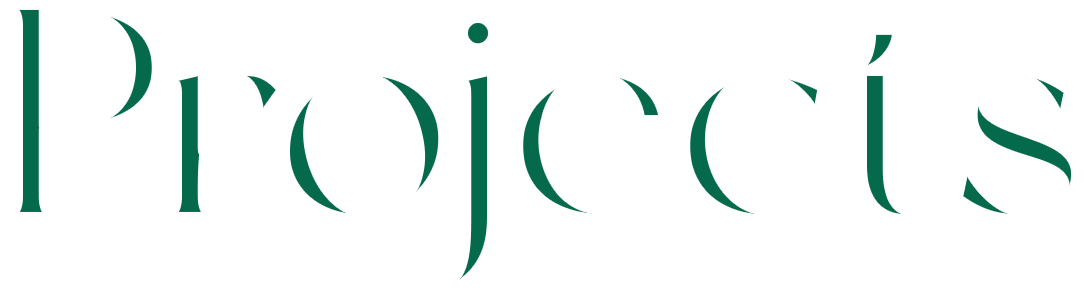
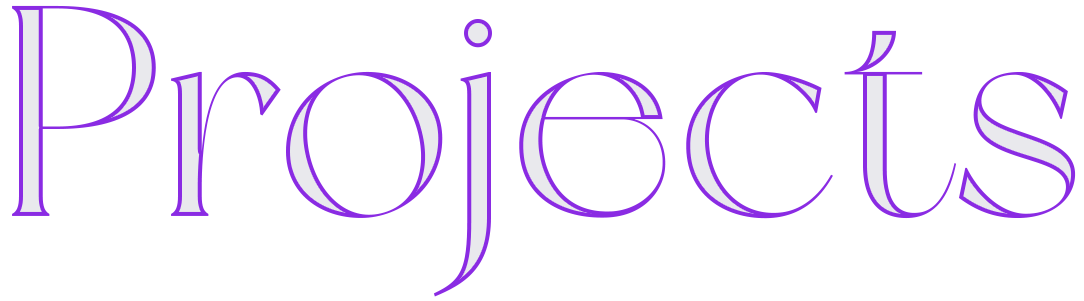
Complete first project layout

diff --git a/my-portfolio/src/containers/Home/HomePage.js b/my-portfolio/src/containers/Home/HomePage.js
@@ -9,13 +9,16 @@ import 'aos/dist/aos.css';
 import './HomePage.css';
 import 'bootstrap/dist/css/bootstrap.min.css';
 
+// BootStrap
+import Button from 'react-bootstrap/Button';
+
 import portrait from '../../config/assets/images/me.png';
 import linkedin from '../../config/assets/icons/linkedin.svg';
 import mail from '../../config/assets/icons/mail.svg';
 import github from '../../config/assets/icons/github.svg';
 import file from '../../config/assets/icons/file.svg';
 import resume from '../../config/files/Resume.pdf';
-import identity from '../../config/assets/images/type(8).gif';
+import identity from '../../config/assets/images/type(8)_purp.gif';
 import projects_head from '../../config/assets/images/h-projects.png';
 
 
@@ -33,11 +36,12 @@ const HomePage = () => {
 
     return (
         <>
+        <div id="homepage-full-bg">
         <div id="homepage-bg" className="full-viewport">
 
             <div className="homepage-container">
 
-                <div id="homepage-name">
+                <div id="homepage-name" className="accented-text">
                     <span id="s" className="homepage-typography" style={{transform: `translateY(${offsetY * 0.15}px)`}}>S</span>
                     <span id="a" className="homepage-typography" style={{transform: `translateY(${offsetY * 0.25}px)`}}>A</span>
                     <span id="l-1" className="homepage-typography" style={{transform: `translateY(${offsetY * 0.35}px)`}}>L</span>
@@ -68,19 +72,17 @@ const HomePage = () => {
                 <div id="about-text" style={{transform: `translateY(${offsetY * 0.07}px)`}}>
                     <h1  id="about-me-header" className="display-4" 
                     data-aos="fade-down" data-aos-duration="1000">Hi, I'm Sally!👋🏻 <br/> 
-                    <img src={identity} alt="" id="id-gif"/> <br/> in Vancouver with a background in Psychological research and design. <br/> <br/>
+                    <img src={identity} alt="" id="id-gif"/> <br/> in Vancouver with a background in design and Psychological research. <br/> <br/>
                     I am currently a co-op student in the Computer Systems Technology program at BCIT.</h1>
 
                     <div id="about-bullets" 
                         data-aos="fade-down" data-aos-duration="1000">
                         <ul>
-                            <li>Led and worked in team settings as a <strong>Project Manger</strong>, <strong>front-end developer</strong>, <strong>UX/UI Designer</strong>, and <strong>Back-end developer</strong></li>
-                            <li>Experience in <strong>Agile/Scrum Development</strong> and <strong>Gitflow Workflow</strong></li>
-                        </ul>
-
-                        <ul>
+                            <li>Led and worked in team settings as a <strong>Project Manger</strong>, <strong>front-end developer</strong>, <strong>UX/UI Designer</strong>, and <strong>back-end developer</strong></li>
+                            <li>Experience with <strong>Agile/Scrum Development</strong> and <strong>Gitflow Workflow</strong> using Trello and Miro Boards</li>
                             <li>Skills in: Python, Javascript, React.js, MySQL, Firebase, and more</li>
                             <li>Ability to adapt and succeed under steep learning curves</li>
+                            <li>Self-taught <strong>Adobe Photoshop, After Effects, Illustrator, and InDesign</strong> as a creative outlet</li>
                         </ul>
 
                     </div>
@@ -92,6 +94,42 @@ const HomePage = () => {
             </div>
         </div>
 
+        <div id="projects-bg">
+
+            <div id="projects-head-container">
+                <img src={projects_head} alt="projects-head" id="projects-head" 
+                style={{transform: `translateX(-${offsetY * 0.07}px)`}}
+                />
+            </div>
+
+            <div className="proj">
+
+                <div className="proj-intro-container" >
+                    <h1 className="display-4 proj-head accented-text" 
+                        data-aos="fade-right" data-aos-duration="1800"
+                        style={{transform: `translateX(${offsetY * 0.07}px)`}}>
+                        Sustainable Gardening and Community Building</h1>
+
+                    <Link to="/sprout"><div id="sprout-img" className="proj-img" 
+                    data-aos="fade-right" data-aos-duration="2250" /></Link>
+                
+                </div>
+
+                <div className="proj-para">
+                    <p className="proj-descrip" data-aos="fade-left" data-aos-duration="1000">
+                        <a href="/sprout" className="left"><strong>Sprout</strong></a> is a five-week Agile Development Project by 4 first-year CST 
+                        students at BCIT built to encourage nurturing our knowledge of sustainable 
+                        gardening within a friendly community.
+                    </p>
+
+                    <Button variant="outline-dark" size="lg">View Project</Button>
+                </div>
+
+            </div>
+
+
+        </div>
+
 
 
         <div id="connect" className="full-viewport">
@@ -100,18 +138,20 @@ const HomePage = () => {
             <div id="connect-links-container" className="two-column"
                 data-aos="fade-down" data-aos-duration="3000">
                 <ul>
-                    <li><a href="https://www.linkedin.com/in/sally-poon-30719b120/" >
+                    <li><a href="https://www.linkedin.com/in/sally-poon-30719b120/">
                         <img src={linkedin} alt=""/><span className="connect-link">LinkedIn</span></a></li>
                     <li><a href="mailto:sallyklpoon@gmail.com">
-                        <img src={mail} alt=""/><span clasName="connect-link">Email</span></a></li>
+                        <img src={mail} alt=""/><span className="connect-link">Email</span></a></li>
                 </ul>
                 <ul>
                     <li><a href="https://github.com/sallyklpoon">
-                        <img src={github} alt=""/><span clasName="connect-link">Github</span></a></li>
+                        <img src={github} alt=""/><span className="connect-link">Github</span></a></li>
                     <li><a href={resume} download>
-                        <img src={file} alt=""/><span clasName="connect-link">Resume</span></a></li>
+                        <img src={file} alt=""/><span className="connect-link">Resume</span></a></li>
                 </ul>
             </div>
+
+        </div>
 
         </div>
         </>

diff --git a/my-portfolio/src/containers/Home/HomePage.css b/my-portfolio/src/containers/Home/HomePage.css
@@ -1,3 +1,22 @@
+:root {
+    --white: #F6F6F6;
+    --accent: #00F9FF;
+    --light: #B537F2;
+    --solid: #8A2BE3;
+    --dark: #120052;
+}
+
+
+.accented-text {
+    text-shadow: -10px 10px var(--accent);
+    color: var(--light);
+}
+
+#homepage-full-bg {
+    background-image: url('../../config/assets/images/paper-3.png');
+    background-color: var(--white);
+}
+
 .full-viewport {
     display: flex;
     align-items: center;
@@ -32,8 +51,9 @@
 
 
 #homepage-bg {
+    background-image: url('../../config/assets/images/paper-3.png');
+    background-color: var(--white);
     height: 100vh;
-    background-color: #F6F6F6;
     z-index: -5;
 }
 
@@ -44,14 +64,7 @@
 
 }
 
-#id-gif {
-    width: auto;
-    height: 4.5rem;
-    margin-left: -1.75rem;
-}
-
 .homepage-typography {
-    color: #F88C99;
     font-size: 10rem;
     display: inline;
     margin: 0rem;
@@ -128,12 +141,13 @@
 }
 
 #homepage-bg a {
-    color: #056A4C;
+    color: var(--dark);
     text-decoration: none;
+    opacity: 0.6;
 }
 
 #homepage-bg a:hover {
-    color: #F88C99;
+    opacity: 1;
     font-weight: bold;
 }
 
@@ -142,12 +156,16 @@
     width: 13rem;
 }
 
+/* ABOUT PAGE */
+
 #about {
     width: 70rem;    
 }
 
 #about-bg {
-    background-color: #056A4C;
+    -webkit-clip-path: polygon(0 14%, 100% 0, 100% 100%, 0% 100%);
+    clip-path: polygon(0 14%, 100% 0, 100% 86%, 0% 100%);
+    background-color: var(--solid);
 }
 
 #about-text {
@@ -158,7 +176,7 @@
 #about p,
 #about li  
 {
-    color: #DEF7F3;
+    color: var(--white);
     margin-bottom: 1rem;
 }
 
@@ -166,6 +184,13 @@
 #about li {
     font-size: 1.5rem;
 }
+
+#id-gif {
+    width: auto;
+    height: 4.5rem;
+    margin-left: -0.5rem;
+}
+
 
 
 #portrait {
@@ -177,11 +202,86 @@
 
 
 #about-bullets {
-    margin-top: 4rem;
+    margin: 4rem auto;
+
 }
 
+
+/* PROJECTS DIV */
+
+#projects-head-container {
+    display: flex;
+    justify-content: flex-end;
+}
+
+.proj {
+    display: flex;
+    align-items: center;
+    justify-content: center;
+}
+
+#projects-head {
+    margin-left: auto;
+    margin-bottom: 5rem;
+    opacity: 0.8;
+}
+
+.proj-intro-container {
+    width: 50rem;
+}
+
+.proj-head {
+    color: var(--light);
+    width: 30rem;
+    font-weight: 200 ;
+}
+
+.proj-img {
+    height: 25rem;
+    width: 40rem;
+    margin: 2rem 15rem 2rem 15rem;
+    border: 5px solid var(--light);
+}
+
+.proj-img:hover {
+    border: 5px solid var(--accent);
+}
+
+.proj-para {
+    width: 30%;
+    margin: 3rem 10rem;
+}
+
+.proj-para a {
+    text-decoration: none;
+    color: var(--solid);
+}
+
+.proj-descrip {
+    font-size: 1.5rem;
+    color: var(--dark);
+    margin-bottom: 2rem;
+}
+
+.btn-outline-dark {
+    color: var(--solid);
+    border-color: var(--solid) !important;
+}
+
+.btn-outline-dark:hover {
+    background-color: var(--solid);
+}
+
+#sprout-img {
+    background-image: url('../../config/assets/images/sprout_mock.png');
+    background-repeat: no-repeat;
+    background-size: cover;
+}
+
+/* LET'S CONNECT DIV */
+
 #connect {
-    background-color: #F6F6F6;
+    background-color: var(--white);
     height: 100vh;
     flex-direction: column;
 }
@@ -200,11 +300,11 @@
 
 #connect-links-container a {
     font-size: 1.5rem;
-    color: #056A4C;
+    color: var(--light);
 }
 
 #connect-links-container a:hover {
-    color: #F88C99;
+    color: var(--accent);
 }
 
 
@@ -234,7 +334,7 @@ a.left:before {
   height: 2px;
   bottom: 0;
   left: 0;
-  background-color: #f8ca84;
+  background-color: var(--accent);
   visibility: hidden;
   transition: all 0.3s ease-in-out;
 }

diff --git a/my-portfolio/README.md b/my-portfolio/README.md
@@ -68,3 +68,8 @@ This section has moved here: [https://facebook.github.io/create-react-app/docs/d
 ### `yarn build` fails to minify
 
 This section has moved here: [https://facebook.github.io/create-react-app/docs/troubleshooting#npm-run-build-fails-to-minify](https://facebook.github.io/create-react-app/docs/troubleshooting#npm-run-build-fails-to-minify)
+
+### Handy Resources
+Clippy: https://bennettfeely.com/clippy/
+NewYork Font: https://www.behance.net/artemnevsky
+AOS: https://github.com/michalsnik/aos
